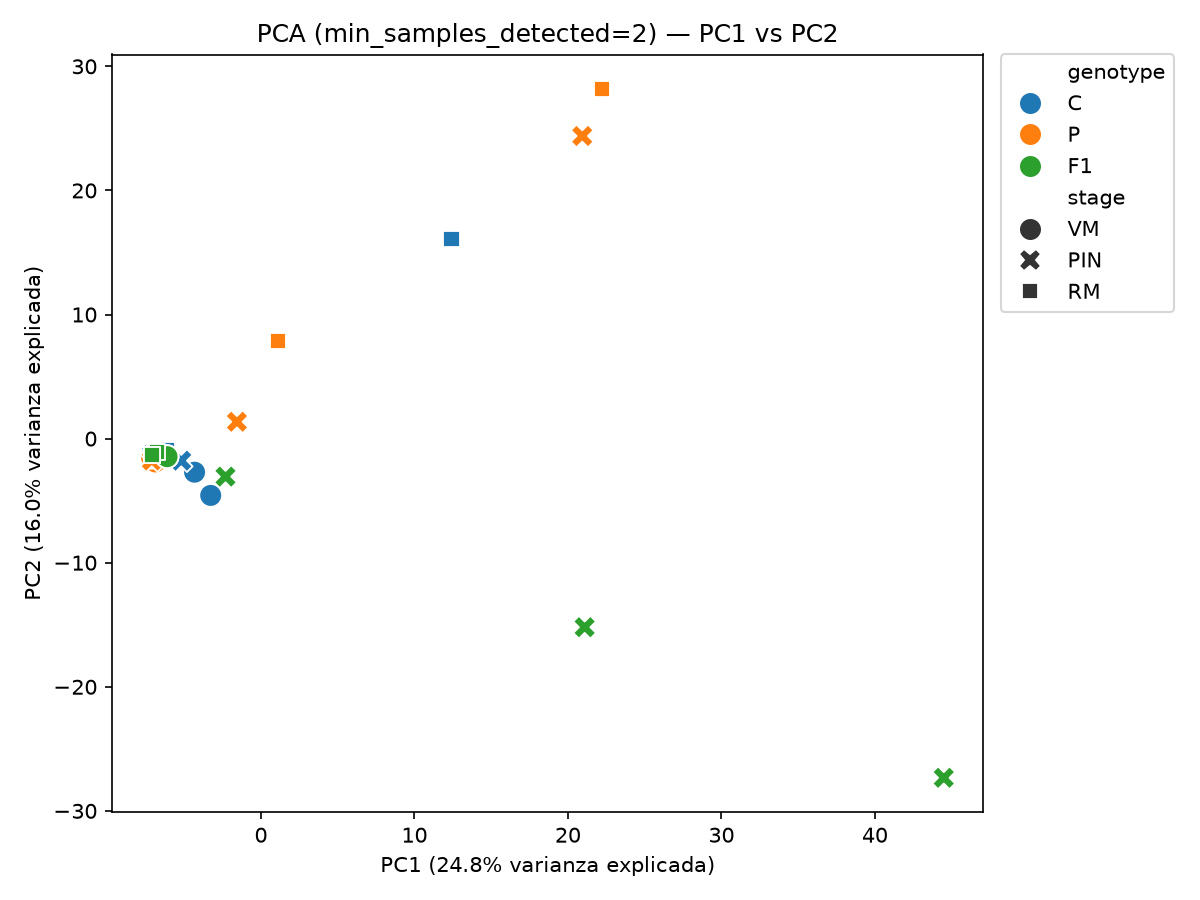
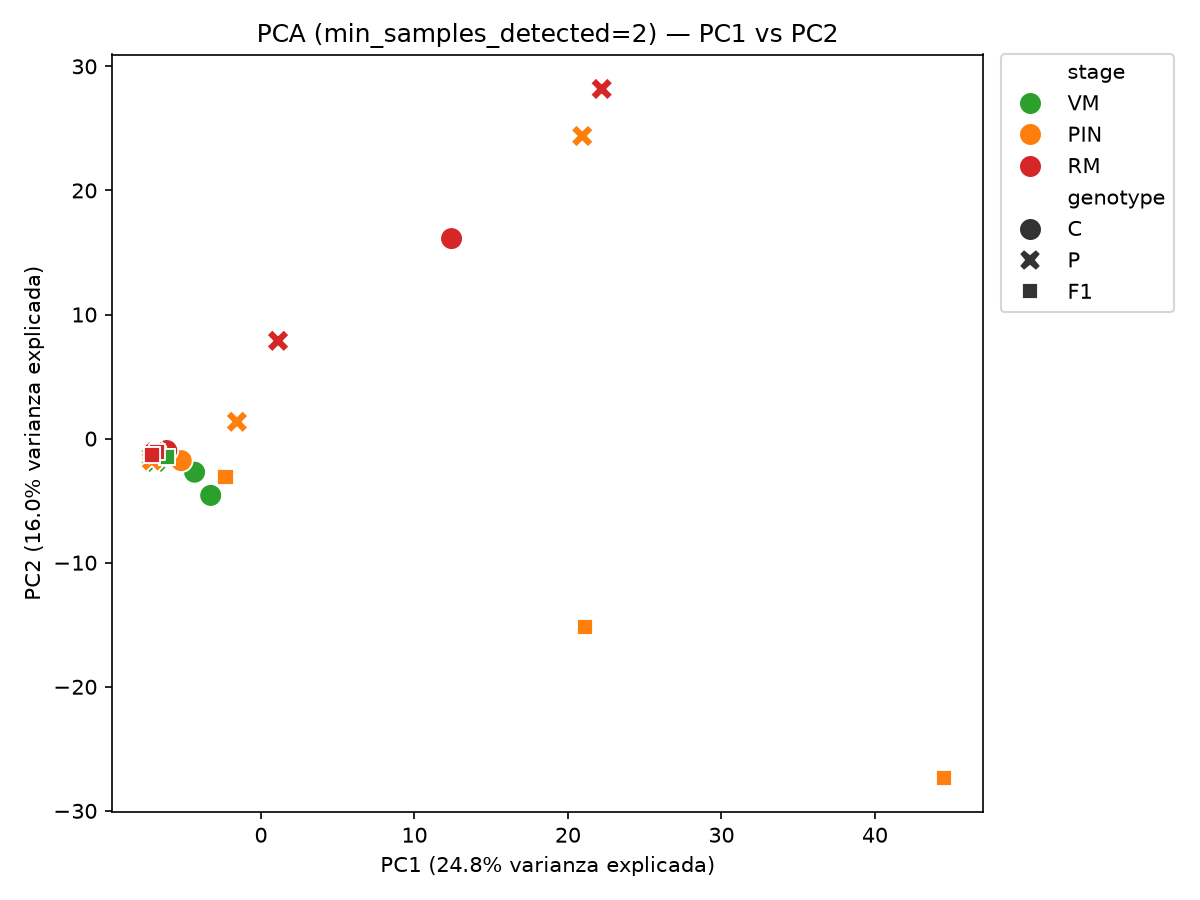
colores graficas: stage (VM/PIN/RM) en verde/naranja/rojo y genotype (C/P/F1) en negro con formas distintas

diff --git a/scripts/run_pca.py b/scripts/run_pca.py
@@ -130,11 +130,16 @@ def parse_sample_metadata(sample_names):
     return metadata
 
 
+STAGE_PALETTE = {"VM": "#2ca02c", "PIN": "#ff7f0e", "RM": "#d62728"}
+
+
 def plot_pc1_pc2(scores, metadata, variance_explained, out_path, title):
     """
-    Grafica PC1 vs PC2. El color representa el genotipo (C, P, F1) y la forma
-    representa la etapa de maduración (VM, PIN, RM), para poder ver a simple
-    vista si las muestras se agrupan según alguno de los dos factores.
+    Grafica PC1 vs PC2. El color representa la etapa de maduración (VM, PIN,
+    RM), siguiendo el color real del tomate en cada etapa (verde, naranja,
+    rojo), y la forma representa el genotipo (C, P, F1) en negro, para poder
+    ver a simple vista si las muestras se agrupan según alguno de los dos
+    factores.
     """
     plot_df = scores[["PC1", "PC2"]].join(metadata)
 
@@ -150,8 +155,10 @@ def plot_pc1_pc2(scores, metadata, variance_explained, out_path, title):
         data=plot_df,
         x="PC1",
         y="PC2",
-        hue="genotype",
-        style="stage",
+        hue="stage",
+        hue_order=list(STAGE_PALETTE.keys()),
+        palette=STAGE_PALETTE,
+        style="genotype",
         s=120,
     )
     plt.xlabel(f"PC1 ({pc1_var:.1f}% varianza explicada)")

diff --git a/CLAUDE.md b/CLAUDE.md
@@ -39,8 +39,9 @@ conclusión definitiva — son patrones a interpretar con cautela.
    y por qué, en la conversación misma (no hace falta un documento aparte).
 
 4. **Cada corrida debe guardar en su carpeta de resultados**:
-   - Gráfico PC1 vs PC2 (y PC1 vs PC3 si aporta algo), coloreado por genotipo y con
-     forma distinta por etapa de maduración.
+   - Gráfico PC1 vs PC2 (y PC1 vs PC3 si aporta algo), coloreado por etapa de
+     maduración (VM=verde, PIN=naranja, RM=rojo, como el color real del tomate en
+     cada etapa) y con forma distinta por genotipo (C, P, F1, en negro).
    - Tabla de % de varianza explicada por componente.
    - Tabla de coordenadas de las muestras (scores).
    - Si es relevante para esa variante, proteínas con mayor contribución a PC1/PC2
